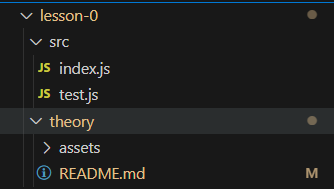
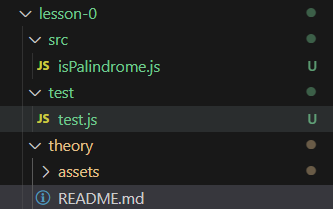
Lesson-0 is done

diff --git a/lesson-0/src/countOfSymbols.js b/lesson-0/src/countOfSymbols.js
@@ -1,0 +1,12 @@
+// Написать функцию countOfSymbols, которая в качестве параметров принимает,
+// какую-то строку и символ, а возвращает число вхождений этого символа в данную строку
+// Например такой вызов написанной тобой функции countOfSymbols("Программирование", "м") вернет - 2
+// Важно реализовать эту функцию не чувствительную к регистру (заглаваная/строчная буква)
+// Типа вызов функции countOfSymbols("Программирование", "М") также должен вернуть - 2
+
+
+const countOfSymbols = (str, char) => {
+    // ЗДЕСЬ ТВОЙ КОД
+}
+
+module.exports = countOfSymbols

diff --git a/lesson-0/src/isPalindrome.js b/lesson-0/src/isPalindrome.js
@@ -5,7 +5,7 @@
 // А слова: Саша Кожухов, программирование, JavaScript - нет
 
 function isPalindrome(str) {
-    // ЗДЕСЬ ТВОЙ КОД
-  }
-  
-  module.exports = isPalindrome
+  // ЗДЕСЬ ТВОЙ КОД
+}
+
+module.exports = isPalindrome // На это можно пока что не обращать внимания, это просто экспорт функции, чтобы тесты работали

diff --git a/lesson-0/theory/README.md b/lesson-0/theory/README.md
@@ -11,8 +11,8 @@
 
 <img src="./assets/1.png"/>
 
-Здесь в папке src будет файл index.js с исходным кодом и заданием, в котором тебе нудно будет написать некоторый код.
-А в файле test.js будет код для проверки тех адгоритмов, которые ты описал.
+Здесь в папке src будет файлы с расширением .js с исходным кодом и заданием, в котором тебе нудно будет написать некоторый код.
+А в папке tests будет код для проверки тех алгоритмов, которые ты описал.
 
 - Я буду делать в файлах js вот такие некоторые заготовки для тебя
 
@@ -23,3 +23,70 @@
 ```// ЗДЕСЬ ТВОЙ КОД```
 
 - И так файл для написания кода готов, файл с тестами тоже, объясню, что мы делаем для того, чтобы оно все работало
+
+Как ранее я уже говорил, язык программирование выберем пока что js, я тебе скидывал курсик по нему. Для выполнения кода на этом ЯП нам потребуется среда выполнения, она называется node.js
+
+Ссылка для скачивания:
+<a src="https://nodejs.org/en/download">https://nodejs.org/en/download</a>
+
+Тут можно ради интереса почитать про эту платформу:
+<a src="https://en.wikipedia.org/wiki/Node.js">https://en.wikipedia.org/wiki/Node.js</a>
+
+Для того, чтобы запустить код нужно просто ввести команду типа
+```
+node [путь к нашему js файлу]
+```
+
+Создам в папке src файо с названием ```Hello.js```
+
+<img src="./assets/3.png"/>
+
+И попробую там что-нибдуь вывести в консоль
+
+Напишу там простой код
+```
+console.log("Hello!")
+```
+
+<img src="./assets/4.png"/>
+
+Далее прям тут в VS Code открою терминал кликом по ```New Terninal```
+
+<img src="./assets/5.png"/>
+
+И у меня снизу он откроется
+
+<img src="./assets/6.png"/>
+
+Думаю, простые cmd и unix комманды ты уже знаешь, но если нет, то ыстро их выучишь
+
+<img src="./assets/7.png"/>
+
+И так текущая структура проекта у нас такая
+
+<img src="./assets/8.png"/>
+
+Здесь есть то, что тебе нужно и то, что пока что не не сет смысловой нагрузки
+
+Например папка ```node_modules``` и файлы ```package-lock.json``` и ```package.json```
+
+Но вкратце расскажу про них...
+
+Так как мы используем платформу разработки ```Node.js``` - это довольно большое
+программное обеспечение, оно позволяет не только запускать код, но также предоставляет доступ
+к репозиториям с различными библиотеками. Что я сделал?
+Я в терминале находясь в папке ```lesson-0``` ввёл команду ```npm init``` и инициализировал
+node.js проект. У меня появился файлик ```package.json```, который содержит ифнормацию о проекте, например "он знает" какие у меня в проекте используются библиотеки. Их же называют
+пакетами. Что такое ```NPM```? ```NPM``` - это просто аббревиатура, которая расшифровывается, как Node Package Manager - менеджер пакетов Node.
+
+Далее я ввел команду ```npm install jest``` у меня сразу же началась загрузка npm пакета jest,
+с помощью которого я написал для тебя юнит тесты, которые ты будешь запускать, чтобы ты мог проверять свой код, автоматически =)
+
+Как запустить тесты? Надо просто ввести команду в терминал ```npm run test``` или ```npm test``` это запустит скрипт теста, который описан в файлике package.json в секции scripts, который в свою очередь запустит jest
+
+<img src="./assets/9.png"/>
+
+и мы увидим в консоли много всякого страшного, ну потому что код еще не написан) 
+
+<img src="./assets/10.png"/>
+
